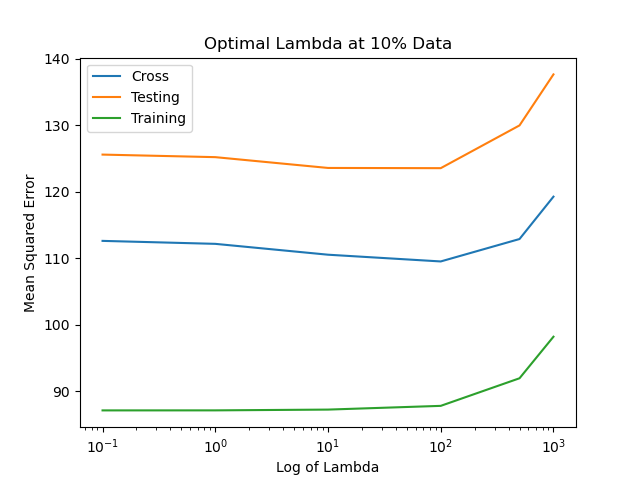
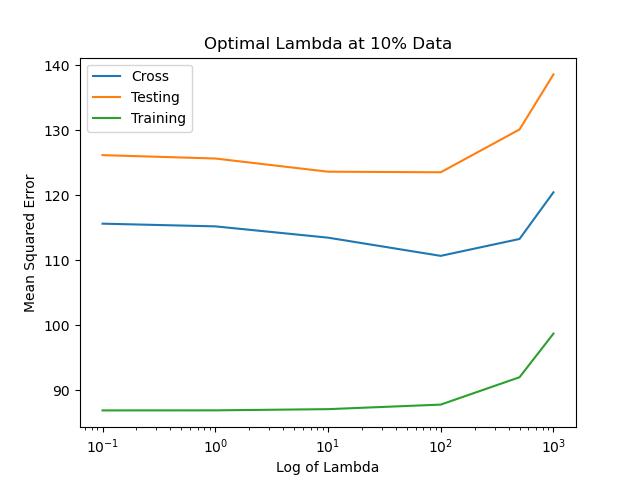
Actually Final!

diff --git a/PS1-P6.py b/PS1-P6.py
@@ -126,7 +126,6 @@ for j in range(6):
         ytrain10_cross = train2_reg.predict(test_cross10[0])
         cross_error10[j][k] = utils.mean_squared_error(
             ytrain10_cross, test_cross10[1])
-
         train2_reg.fit(train_cross100[0], train_cross100[1])
         ytrain100_cross = train2_reg.predict(test_cross100[0])
         cross_error100[j][k] = utils.mean_squared_error(
@@ -142,25 +141,25 @@ best_lambda10 = regularizer_values[cross_index10]
 cross_index100 = np.argmin(avg_reg_error100)
 best_lambda100 = regularizer_values[cross_index100]
 
-train_final = LeastSquareRegression(regularizer_values[cross_index10])
-train_final.fit(train_cross10[0], train_cross10[1])
+train_final = LeastSquareRegression(best_lambda10)
+train_final.fit(subset_X10, subset_y10)
 print("10%: Set of all cross-validation errors are as follows: ", avg_reg_error10)
 print("10%: The optimal lambda is: "+str(best_lambda10))
 print("10%: The corresponding training error is: ",
-      train_errors2_reg10[cross_index10])
+      utils.mean_squared_error(train_final.predict(subset_X10), subset_y10))
 print("10%: The corresponding testing error is: ",
-      test_errors2_reg10[cross_index10])
+      utils.mean_squared_error(train_final.predict(X_test2), y_test2))
 print("10%: Weight vector: ", train_final.weight)
 print("10%: Bias term: ", train_final.bias)
 
-train_final = LeastSquareRegression(regularizer_values[cross_index100])
-train_final.fit(train_cross100[0], train_cross100[1])
+train_final = LeastSquareRegression(best_lambda100)
+train_final.fit(subset_X100, subset_y100)
 print("100%: Set of all cross-validation errors are as follows: ", avg_reg_error100)
 print("100%: The optimal lambda is: "+str(best_lambda100))
 print("100%: The corresponding training error is: ",
-      train_errors2_reg100[cross_index100])
+      utils.mean_squared_error(train_final.predict(subset_X100), subset_y100))
 print("100%: The corresponding testing error is: ",
-      test_errors2_reg100[cross_index100])
+      utils.mean_squared_error(train_final.predict(X_test2), y_test2))
 print("100%: Weight vector: ", train_final.weight)
 print("100%: Bias term: ", train_final.bias)
 

diff --git a/linear_regression.py b/linear_regression.py
@@ -43,12 +43,15 @@ class LeastSquareRegression():
 
         # Your solution goes here
         X = utils.augment_bias(X)
+        identity = np.identity(d)
+        identity = np.concatenate((identity, np.zeros((1, d))))
+        identity = np.concatenate((identity, np.zeros((d+1, 1))), axis=1)
         in_inv = np.dot(np.transpose(X), X)+self.lam * \
-            len(y)*np.identity(len(X[0]))
+            len(y)*identity
         wb = np.dot(np.dot(np.linalg.inv(in_inv), np.transpose(X)), y)
-        w = wb[:(len(X[0])-1)]
+        w = wb[:-1]
         self.weight = w
-        b = wb[len(X[0])-1]
+        b = wb[-1]
         self.bias = b
         return (w, b)
 
